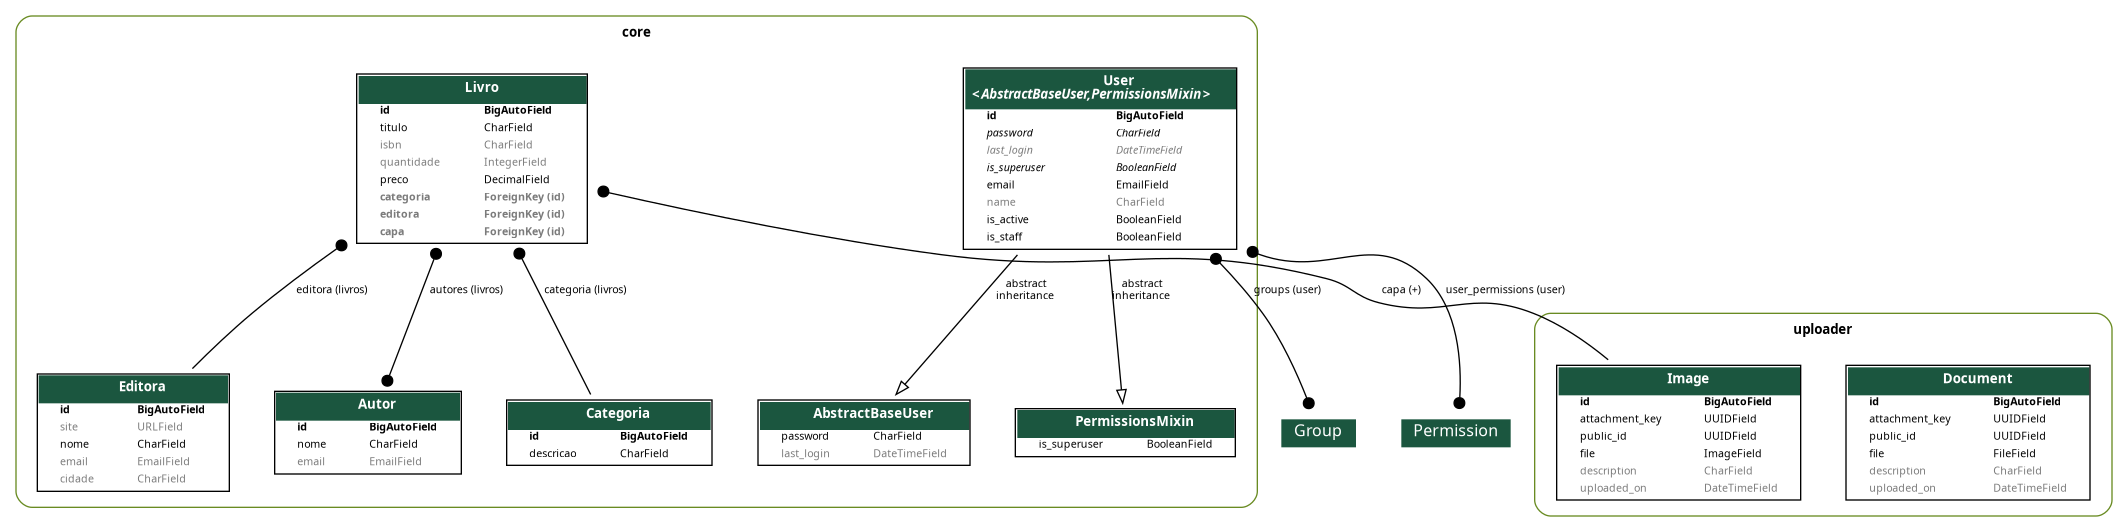
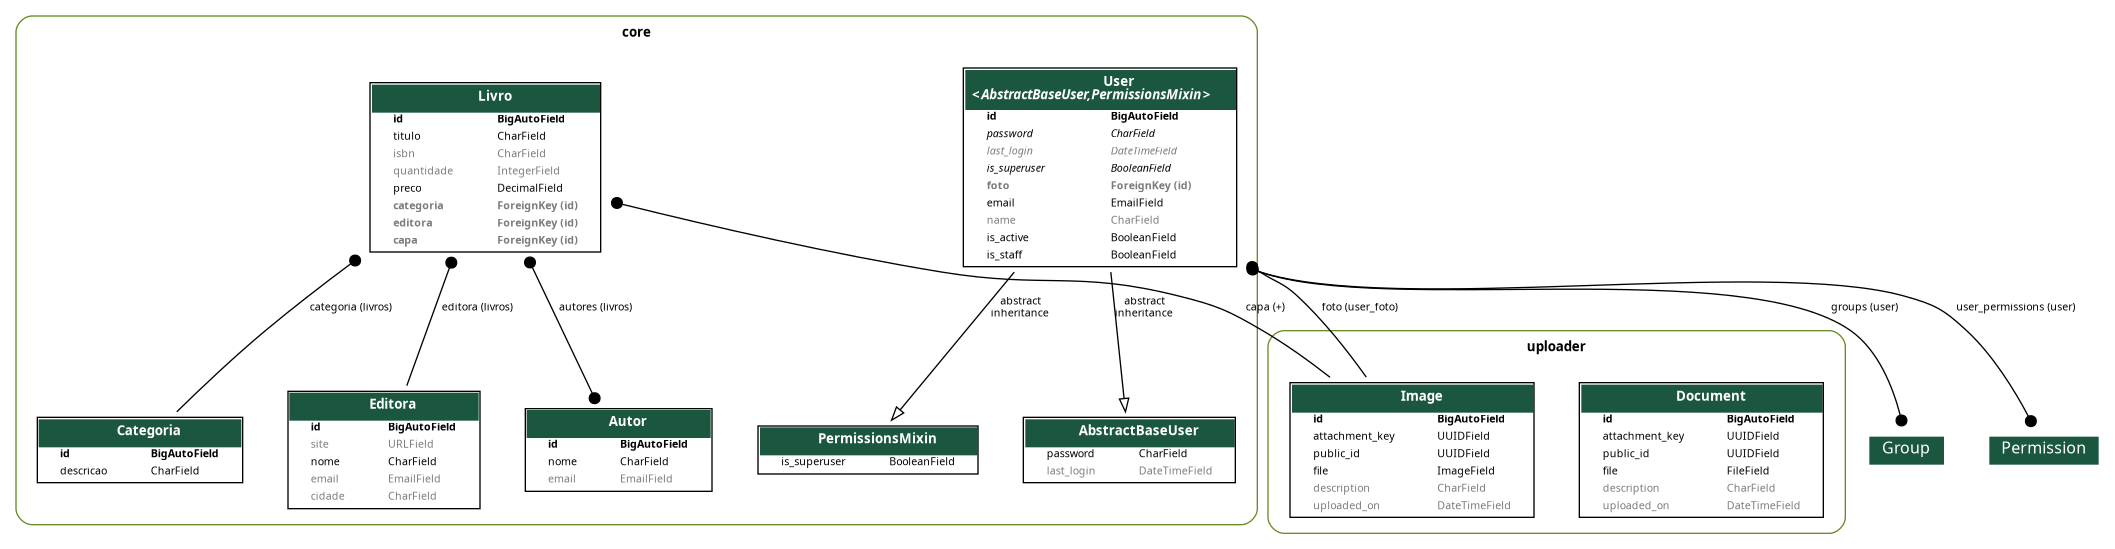
FEAT: Autenticação

diff --git a/core/serializers/user.py b/core/serializers/user.py
@@ -1,18 +1,40 @@
-from rest_framework import serializers
-from rest_framework.serializers import ModelSerializer
+from rest_framework.serializers import CharField, ModelSerializer, SlugRelatedField
 
 from core.models import User
+from uploader.models import Image
+from uploader.serializers import ImageSerializer
 
 
 class UserSerializer(ModelSerializer):
+    foto_attachment_key = SlugRelatedField(
+        source='foto',
+        queryset=Image.objects.all(),
+        slug_field='attachment_key',
+        required=False,
+        write_only=True,
+    )
+    foto = ImageSerializer(
+        required=False,
+        read_only=True
+    )
     class Meta:
         model = User
-        fields = ['id', 'email', 'name', 'is_active', 'is_staff', 'is_superuser', 'last_login', 'groups']
+        fields = (
+            'id',
+            'email',
+            'name',
+            'foto',
+            'foto_attachment_key',
+            'is_active',
+            'is_staff',
+            'is_superuser',
+            'last_login',
+            'groups')
         depth = 1
 
 
 class UserRegistrationSerializer(ModelSerializer):
-    password = serializers.CharField(write_only=True, min_length=8)
+    password = CharField(write_only=True, min_length=8)
 
     class Meta:
         model = User

diff --git a/core/models/user.py b/core/models/user.py
@@ -10,6 +10,8 @@ from django.contrib.auth.models import (
 from django.db import models
 from django.utils.translation import gettext_lazy as _
 
+from uploader.models import Image
+
 
 class UserManager(BaseUserManager):
     """Manager for users."""
@@ -40,6 +42,14 @@ class UserManager(BaseUserManager):
 class User(AbstractBaseUser, PermissionsMixin):
     """User model in the system."""
 
+    foto = models.ForeignKey(
+        Image,
+        related_name='user_foto',
+        on_delete=models.SET_NULL,
+        null=True,
+        blank=True,
+        default=None,
+    )
     email = models.EmailField(max_length=255, unique=True, verbose_name=_('email'), help_text=_('Email'))
     name = models.CharField(max_length=255, blank=True, null=True, verbose_name=_('name'), help_text=_('Username'))
     is_active = models.BooleanField(

diff --git a/core/migrations/0013_user_foto.py b/core/migrations/0013_user_foto.py
@@ -1,0 +1,20 @@
+# Generated by Django 5.2.13 on 2026-05-12 19:34
+
+import django.db.models.deletion
+from django.db import migrations, models
+
+
+class Migration(migrations.Migration):
+
+    dependencies = [
+        ('core', '0012_alter_autor_email'),
+        ('uploader', '0001_initial'),
+    ]
+
+    operations = [
+        migrations.AddField(
+            model_name='user',
+            name='foto',
+            field=models.ForeignKey(blank=True, default=None, null=True, on_delete=django.db.models.deletion.SET_NULL, related_name='user_foto', to='uploader.image'),
+        ),
+    ]

diff --git a/core/admin.py b/core/admin.py
@@ -47,12 +47,12 @@ class LivroAdmin(admin.ModelAdmin):
 @admin.register(User)
 class UserAdmin(BaseUserAdmin):
     """Define the admin pages for users."""
-
     ordering = ['id']
     list_display = ['email', 'name']
+    search_fields = ('id', 'name', 'email')
     fieldsets = (
         (None, {'fields': ('email', 'password')}),
-        (_('Personal Info'), {'fields': ('name',)}),
+        (_('Personal Info'), {'fields': ('name', 'foto')}),
         (
             _('Permissions'),
             {

diff --git a/app/settings.py b/app/settings.py
@@ -146,7 +146,7 @@ AUTH_USER_MODEL = 'core.User'
 
 # Configurações do Django REST Framework
 REST_FRAMEWORK = {
-    # 'DEFAULT_AUTHENTICATION_CLASSES': ('rest_framework_simplejwt.authentication.JWTAuthentication',),
+    'DEFAULT_AUTHENTICATION_CLASSES': ('rest_framework_simplejwt.authentication.JWTAuthentication',),
     'DEFAULT_PAGINATION_CLASS': 'app.pagination.CustomPagination',
     'DEFAULT_SCHEMA_CLASS': 'drf_spectacular.openapi.AutoSchema',
     'PAGE_SIZE': 10,
